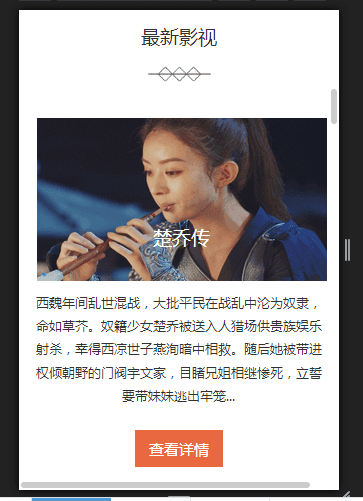
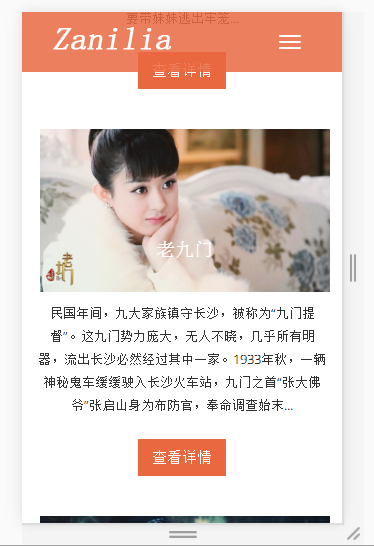
change the top color and image

diff --git a/public/css/style.css b/public/css/style.css
@@ -21,7 +21,7 @@ a:visited, a:focus, a:active, a:hover {
 }
 .navbar-inverse {
 	border: none;
-	background-color: transparent;
+	background-color: #e96840;
 	opacity: 0.85;
 	font-size: 15px;
 	padding-top: 16px;
@@ -48,7 +48,8 @@ a:visited, a:focus, a:active, a:hover {
 	font-weight: 700;
 }
 .navbar-inverse .navbar-nav > .active > a, 
-.navbar-inverse .navbar-nav > .active > a:hover {
+.navbar-inverse .navbar-nav > .active > a:hover,
+.navbar-inverse .navbar-nav > .active > a:focus {
 	background-color: transparent;
 }
 .navbar-inverse .navbar-nav>li>a:before {
@@ -103,7 +104,7 @@ a:visited, a:focus, a:active, a:hover {
 		font-size: 12px;
 	}
 	.container > .navbar-collapse {
-		background-color: #31708f;
+		background-color: transparent;
 		text-align: center;
 	}
 }
@@ -944,8 +945,8 @@ ul.nav-pills {
 #address {
 	background: #286090;
 	color: #fff;
-	min-height: 150px;
-	line-height: 150px;
+	min-height: 60px;
+	line-height: 60px;
 }
 #address .fa {
     padding-left: 31px;

diff --git a/views/index.html b/views/index.html
@@ -16,7 +16,7 @@
     </head>
     <body data-spy="scroll">
         <!--导航栏-->
-    	<nav class="navbar navbar-inverse navbar-static-top">
+    	<nav class="navbar navbar-inverse navbar-fixed-top">
             <div class="container">
                 <div class="navbar-header">
                     <button type="button" class="navbar-toggle" data-toggle="collapse" data-target="#tum_navbar_header">

diff --git a/README.md b/README.md
@@ -6,6 +6,7 @@ A response layout page with bootstrap,angular,node,express and requirejs
 * npm v3.10.10
 * express v4.15.0
 * bower v1.8.0
+* git V2.7.2
 
 # Install packages
 you need to install the above environment firstly if you don't have been installed them,then
@@ -20,9 +21,11 @@ npm start
 ```
 Then visit `http://localhost:3000` in your browser
 # pictures
-##### mobile phone
-![screenshot1.png](https://github.com/tumblingG/tumbling/blob/master/public/res/images/screenshot1.png)
-##### pad
-![screenshot1.png](https://github.com/tumblingG/tumbling/blob/master/public/res/images/screenshot2.png)
-##### PC
+# PC
 ![screenshot1.png](https://github.com/tumblingG/tumbling/blob/master/public/res/images/screenshot3.png)
+# pad
+![screenshot1.png](https://github.com/tumblingG/tumbling/blob/master/public/res/images/screenshot2.png)
+# mobile phone
+![screenshot1.png](https://github.com/tumblingG/tumbling/blob/master/public/res/images/screenshot1.png)
+
+
